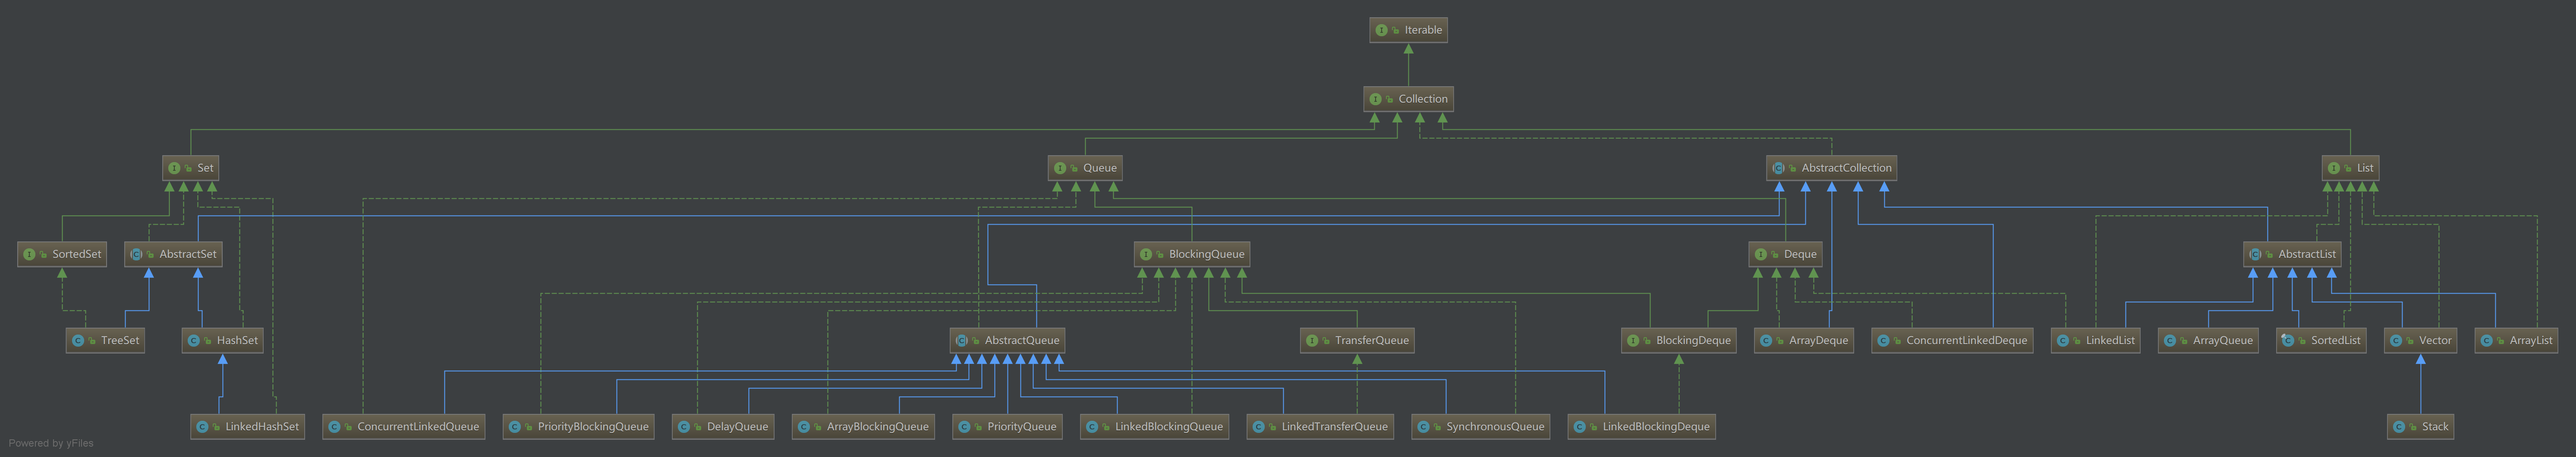
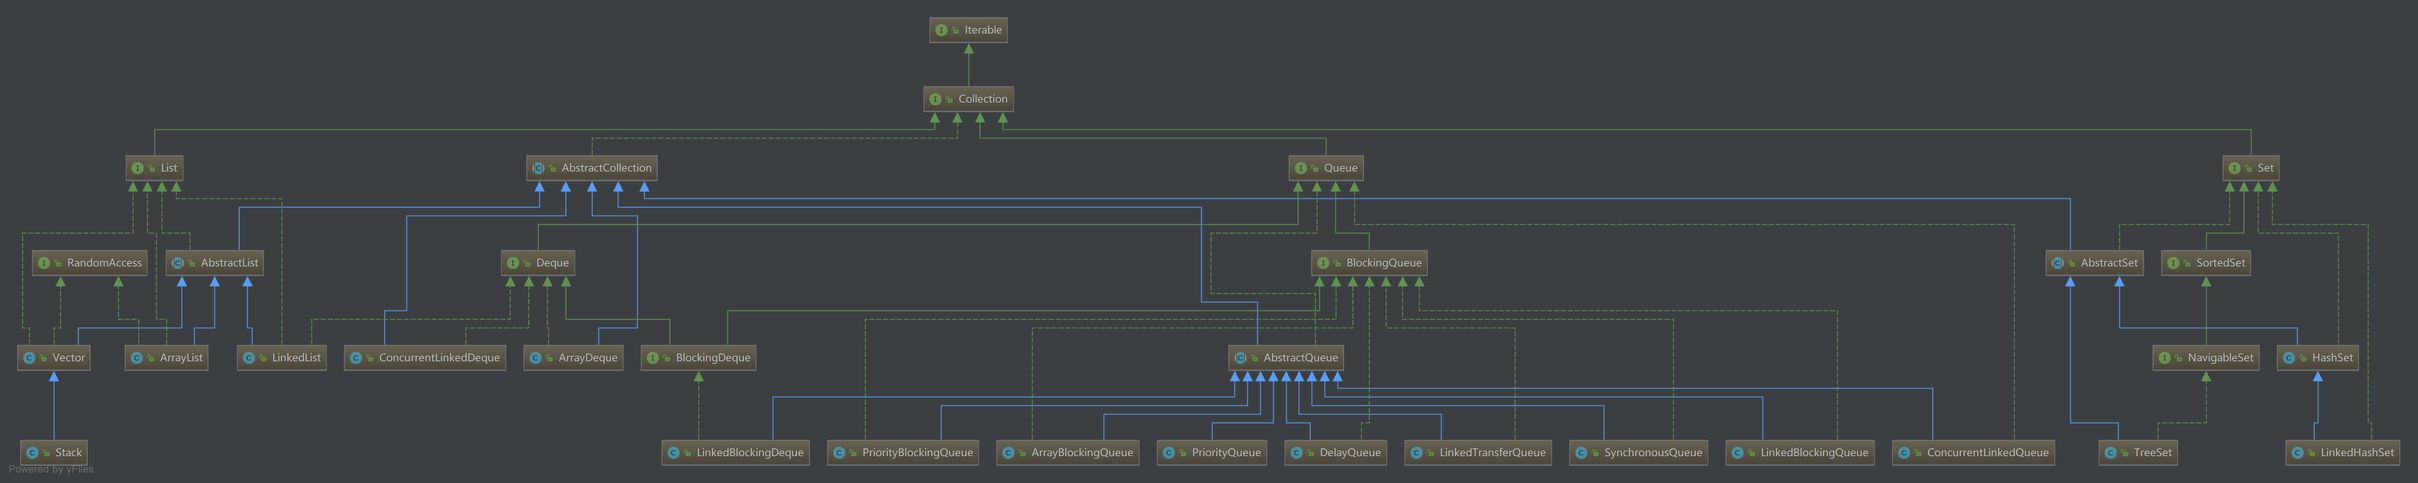
collection

diff --git a/src/java/com/aracg/TestMethod.java b/src/java/com/aracg/TestMethod.java
@@ -2,12 +2,7 @@ package com.aracg;
 
 
 import java.util.AbstractList;
-import java.util.ArrayList;
 import java.util.List;
-import java.util.Set;
-import java.util.concurrent.ArrayBlockingQueue;
-import java.util.concurrent.BlockingDeque;
-import java.util.concurrent.ConcurrentLinkedQueue;
 
 public class TestMethod {
     public static void main(String[] args) {

diff --git a/_posts/2018-09-21-JAVA集合.md b/_posts/2018-09-21-JAVA集合.md
@@ -17,3 +17,6 @@ tags:
 
 ![](http://i.aracg.cc/img/java-collection.png)
 [点击此处查看原图](http://i.aracg.cc/img/java-collection.png)
+
+### List
+![](http://i.aracg.cc/img/java-list.png)
